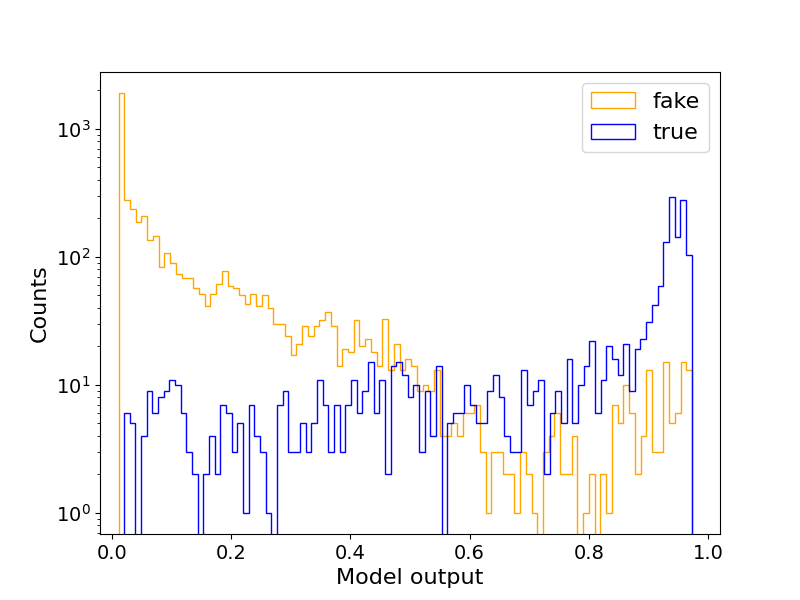
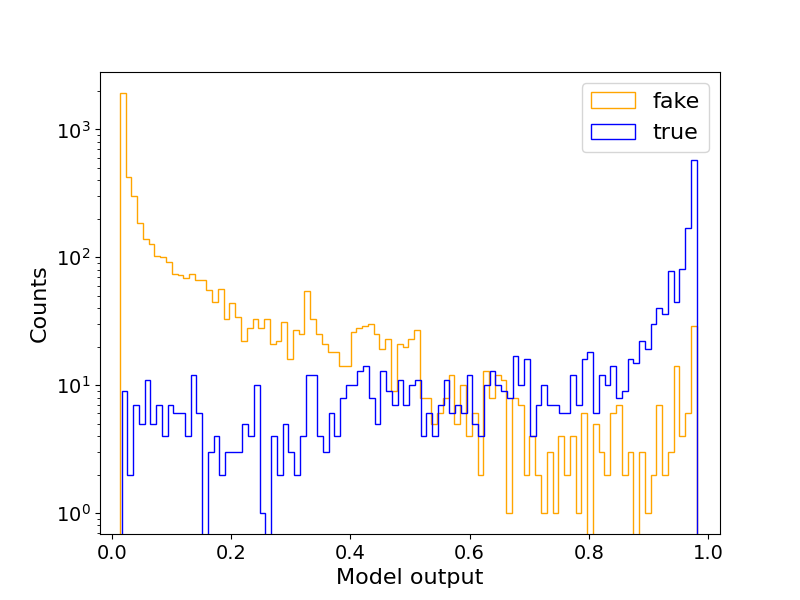
figures

Changed region(s): [[0.0625, 0.15, 0.875, 0.9]]

diff --git a/GNN_training.py b/GNN_training.py
@@ -118,7 +118,7 @@ class CustomWeightedGATConv(MessagePassing):
         if hop == 1:
             return edge_weight.view(-1, 1) * torch.cat([y_j, edge_attr], dim=-1)
         elif hop == 2:
-            return y_j - edge_weight.view(-1, 1) * torch.cat([z_i, edge_attr], dim=-1)
+            return edge_weight.view(-1, 1) * (y_j - edge_weight.view(-1, 1) * torch.cat([z_i, edge_attr], dim=-1))
 
     def update(self, aggr_out):
         return aggr_out
